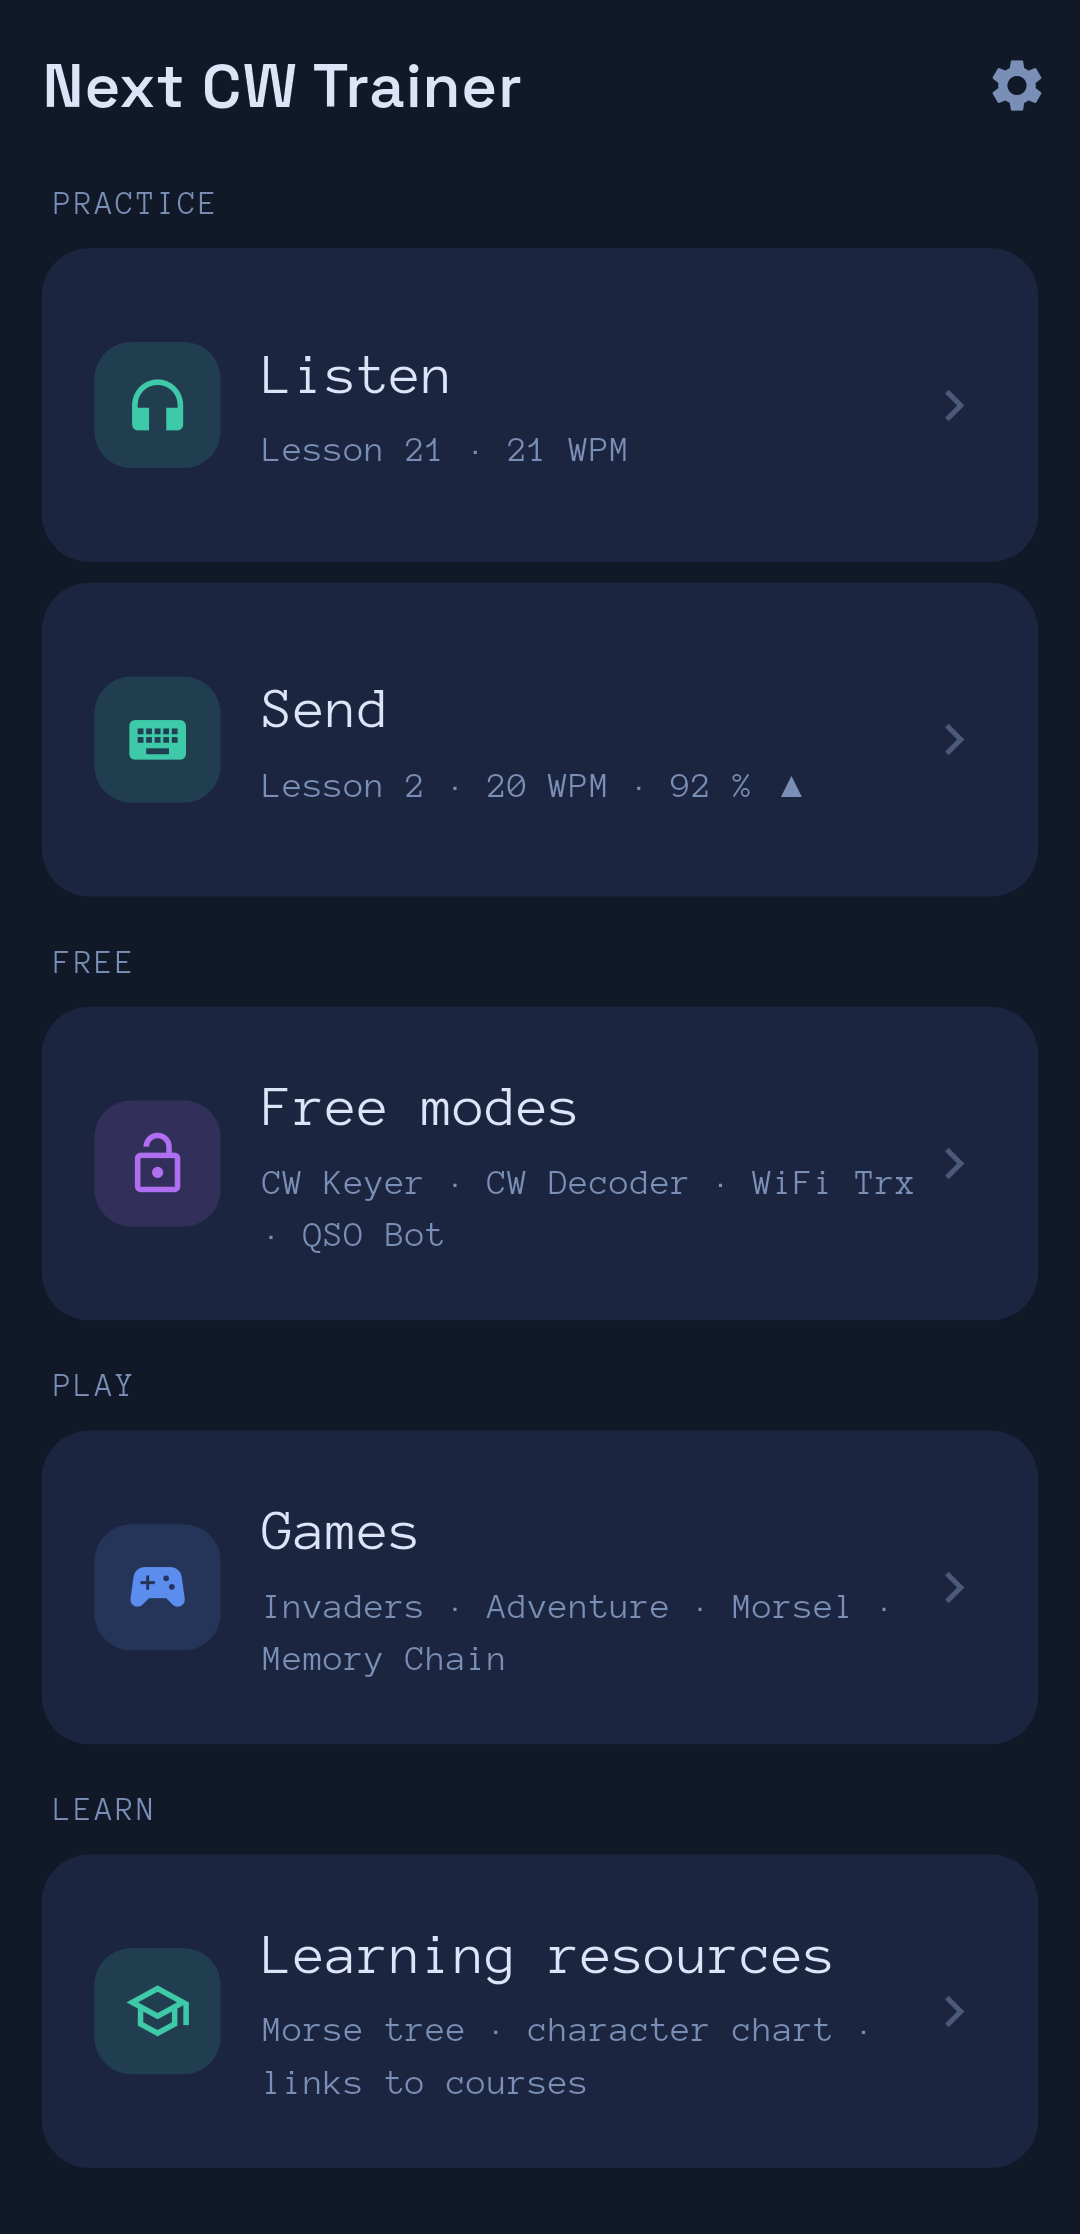
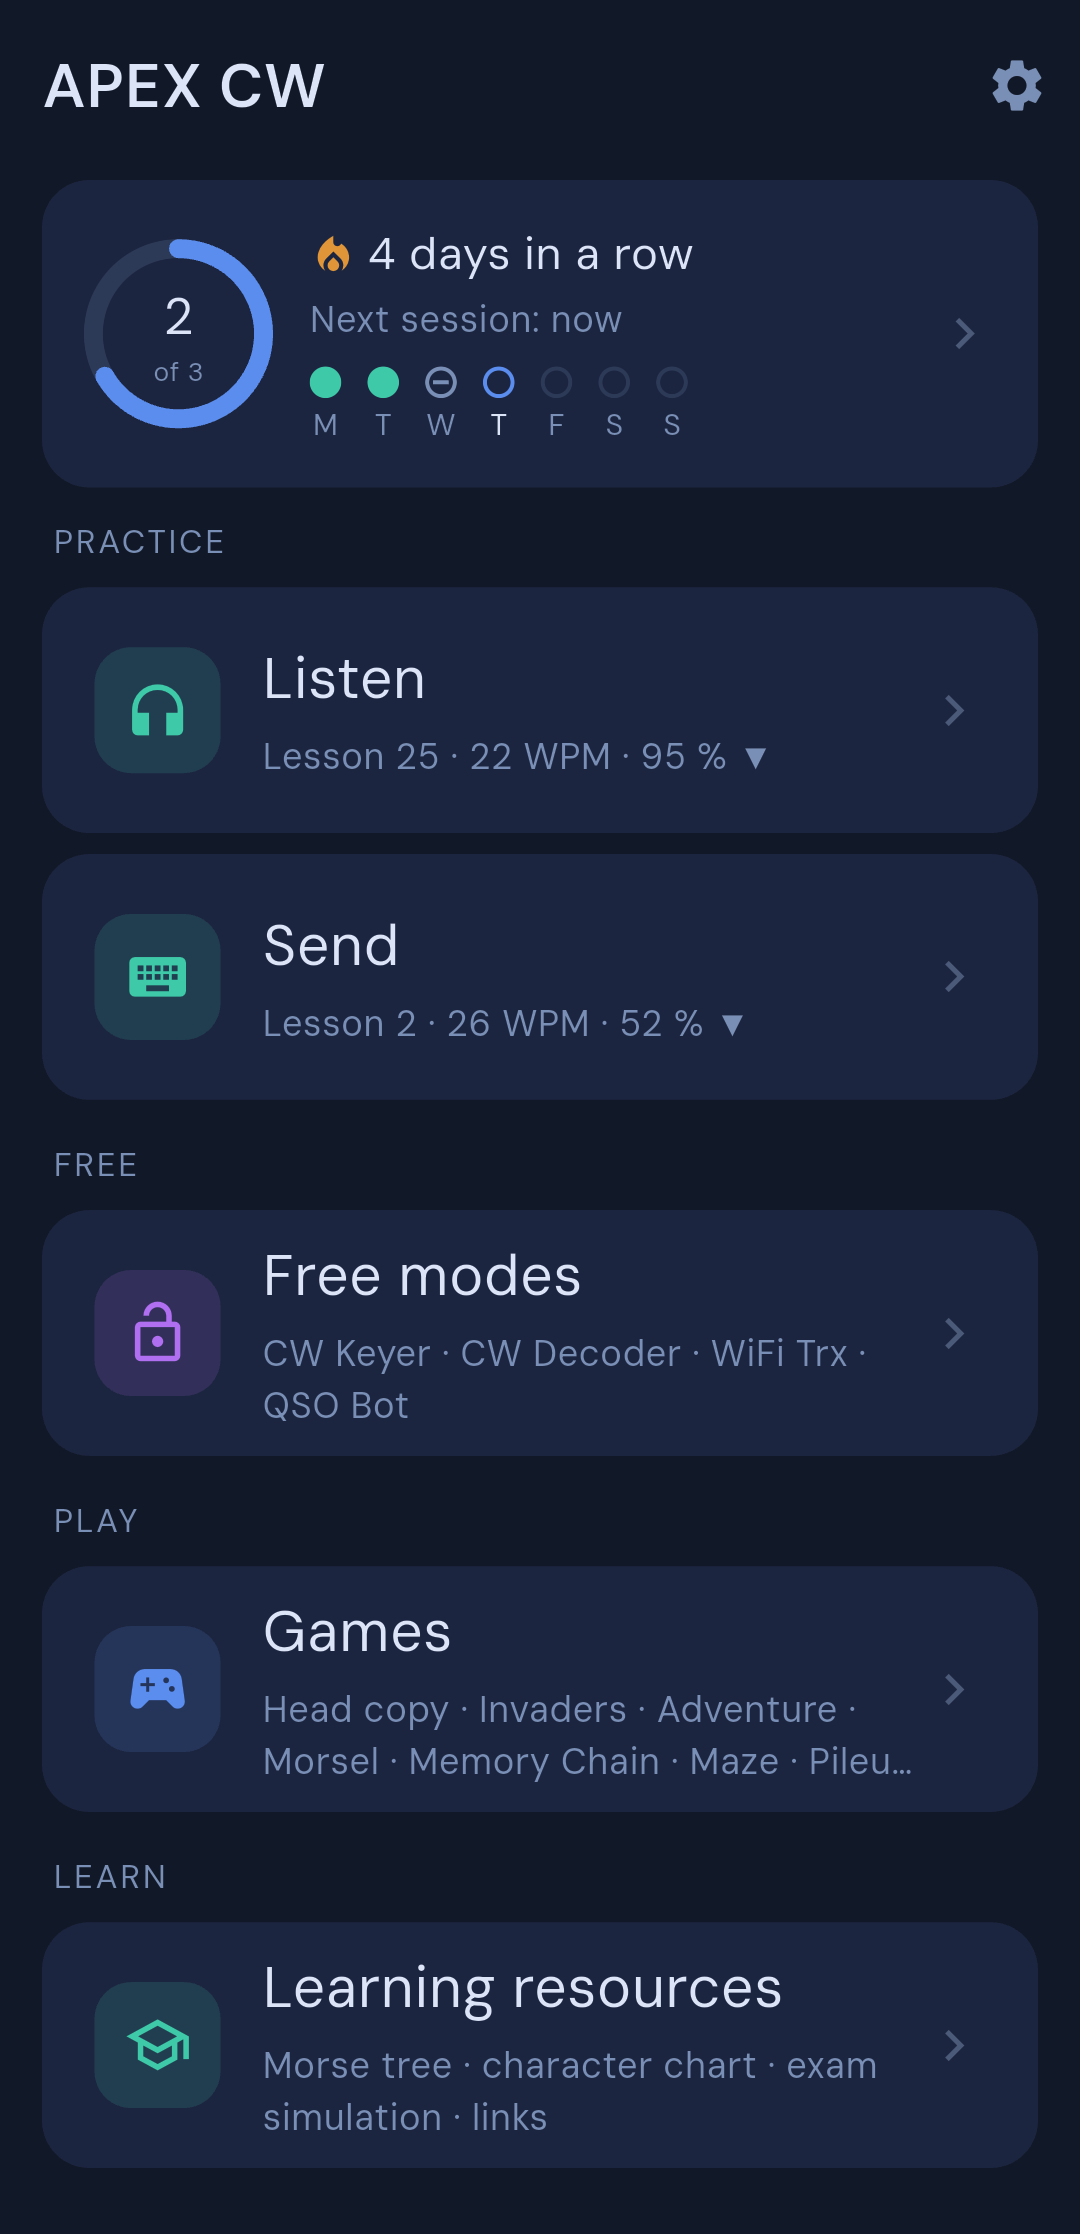
Store listing: new screenshots, graphics and texts for the 1.6.1 beta
8 phone shots per language (adds Head copy and Exam simulation, drops
Adventure and Echo statistics), navy palette matching the new logo,
feature graphic with exam, DE/EN short and full descriptions updated.

diff --git a/store/make_graphics.py b/store/make_graphics.py
@@ -20,20 +20,21 @@ FONT = os.path.join(ROOT, 'android', 'assets', 'fonts', 'DMSans.ttf')
 OUT = os.path.join(ROOT, 'store', 'out')
 
 FEATURE = {
-    'de': ('Morsen lernen, überall', 'Hören · Geben · Keyer · Decoder · Spiele'),
-    'en': ('Learn Morse code anywhere', 'Copy · Send · Keyer · Decoder · Games'),
+    'de': ('Morsen lernen, überall', 'Hören · Geben · Prüfung · Keyer · Spiele'),
+    'en': ('Learn Morse code anywhere', 'Copy · Send · Exam · Keyer · Games'),
 }
 SHOTS = [  # (raw file, DE caption, EN caption), in store order
     ('home', 'Alles fürs CW-Training', 'Everything for CW practice'),
     ('hear', 'Hören mit der Koch-Methode', 'Copy with the Koch method'),
     ('hear_stats', 'Statistik für jedes Zeichen', 'Statistics for every character'),
-    ('echo_stats', 'Geben üben: was du verwechselst', 'Sending: see what you mix up'),
+    ('verstehen', 'Verstehen ohne Mitschreiben', 'Head copy without writing'),
+    ('exam', 'Prüfungssimulation', 'Exam simulation'),
+    ('send', 'Geben üben mit Bewertung', 'Sending practice with grading'),
     ('qso', 'QSO-Bot als Übungspartner', 'QSO Bot as a practice partner'),
     ('games', 'Spielend morsen lernen', 'Learn Morse through games'),
-    ('adventure', 'Klassische Text-Adventures in CW', 'Classic text adventures in CW'),
 ]
 RAW = os.path.join(ROOT, 'store', 'raw')
-TOP, BOTTOM = (116, 153, 212), (45, 70, 125)      # the icon's panel gradient
+TOP, BOTTOM = (30, 52, 96), (18, 33, 64)           # the new icon's navy (#122140)
 DOT, DASH = 18, 54                                  # "CW" in Morse as a motif
 
 

diff --git a/docs/PLAY-LISTING.md b/docs/PLAY-LISTING.md
@@ -21,8 +21,8 @@ short description 80, full description 4000 characters.
 
 ## Short description
 
-- **DE:** Morsen lernen: Koch-Methode, Hör- und Gebetraining, Keyer, Decoder, Spiele
-- **EN:** Learn Morse code: Koch method, copy & send training, keyer, decoder, games
+- **DE:** Morsen lernen: Koch-Methode, Hören, Geben, Prüfungssimulation, Keyer, Spiele
+- **EN:** Learn Morse code: Koch method, copy, send, exam simulation, keyer, games
 
 ## Full description — DE
 
@@ -33,11 +33,20 @@ HÖREN
 • Zufallszeichen, Gruppen, häufige Wörter, Abkürzungen, Rufzeichen, gemischte Inhalte
 • Koch-Methode mit den Reihenfolgen M32, LCWO, CW Academy, LICW oder einer eigenen
 • Blockweise mitschreiben, Fehler markieren, Auswertung mit Trend und schwachen Zeichen
-• Adaptive Vorschläge: nächstes Koch-Zeichen, Farnsworth-Abstände, Tempo – du entscheidest
+• Adaptive Vorschläge: nächstes Koch-Zeichen, Farnsworth-Abstände, Tempo, Pausenhinweis – du entscheidest
 
 GEBEN
 • Echo-Trainer: Wort hören, zurückgeben, sofortige Bewertung
 • Eigenes Profil fürs Geben, Verwechslungspaare, Gebe-Tempo
+
+PRÜFUNGSSIMULATION
+• Die freiwillige Morseprüfung üben: Österreich, Deutschland, UK, Neuseeland, Indien, USA oder ein eigenes Profil
+• Aufnehmen und Geben wie in der Prüfung: festes Tempo, Zeitlimit, Fehlergrenze, bestanden oder nicht
+• Verlauf deiner Versuche – die Werte stammen aus öffentlichen Quellen und ersetzen nicht die offizielle Prüfung
+
+VERSTEHEN OHNE MITSCHREIBEN
+• Sätze, Q-Gruppen und Mini-QSOs hören und Fragen dazu beantworten
+• Zwei Stationen mit zwei Tonhöhen, wie auf dem Band
 
 FREI MORSEN
 • CW-Keyer: Iambic A/B, Ultimatic, Non-Squeeze, Handtaste, mit Live-Dekodierung
@@ -46,13 +55,16 @@ FREI MORSEN
 • QSO-Bot: simulierter Funkpartner für SOTA/POTA-, Standard- und Contest-QSOs
 
 SPIELE
-• Morse Invaders, Morsel (Wörter raten), Memory Chain
+• Morse Invaders, Morsel, Memory Chain, Trailblazer, Fox Hunt, Fight the Pileup, Radio Cave
 • Die Textadventures Zork I–III, komplett in CW gespielt
+
+DRAN BLEIBEN
+• Tagesziel und Serie, Statistik pro Zeichen, Verlaufskurven für Trefferquote, Tempo und Übungszeit
 
 AUSSERDEM
 • Touch-Keyer am Bildschirm oder echte Morsetaste über einen Adapter
 • Latenzarmer Mithörton, Ausgabe über Lautsprecher, Kopfhörer oder Bluetooth
-• Deutsch und Englisch, Statistik pro Zeichen, ausführliches Handbuch
+• Deutsch und Englisch, ausführliches Handbuch
 
 Keine Werbung, keine Konten, keine Datensammlung. Freie Software (GPL-3.0), Quellcode auf GitHub.
 
@@ -68,11 +80,20 @@ LISTEN
 • Random characters, groups, common words, abbreviations, call signs, mixed content
 • Koch method with M32, LCWO, CW Academy, LICW or your own sequence
 • Copy in blocks, mark your misses, results with trend and weak characters
-• Adaptive suggestions: next Koch character, Farnsworth spacing, speed – you decide
+• Adaptive suggestions: next Koch character, Farnsworth spacing, speed, break hint – you decide
 
 SEND
 • Echo Trainer: hear a word, key it back, instant grading
 • Separate sending profile, confusion pairs, answer speed cap
+
+EXAM SIMULATION
+• Rehearse the voluntary Morse exam: Austria, Germany, UK, New Zealand, India, USA or your own profile
+• Receive and send as in the exam: fixed speed, time limit, error limit, pass or fail
+• History of your runs – values come from public sources and do not replace the official exam
+
+HEAD COPY, NO WRITING
+• Hear sentences, Q-groups and mini QSOs and answer questions about them
+• Two stations at two pitches, like on the band
 
 FREE KEYING
 • CW keyer: Iambic A/B, Ultimatic, Non-Squeeze, straight key, with live decoding
@@ -81,13 +102,16 @@ FREE KEYING
 • QSO Bot: a simulated partner for SOTA/POTA, standard and contest QSOs
 
 GAMES
-• Morse Invaders, Morsel (word guessing), Memory Chain
+• Morse Invaders, Morsel, Memory Chain, Trailblazer, Fox Hunt, Fight the Pileup, Radio Cave
 • The text adventures Zork I–III, played entirely in CW
+
+STAY ON TRACK
+• Daily goal and streak, per-character statistics, progress charts for hit rate, speed and practice time
 
 ALSO
 • On-screen touch keyer, or a real Morse key via an adapter
 • Low-latency sidetone through speaker, headphones or Bluetooth
-• German and English, per-character statistics, detailed manual
+• German and English, detailed manual
 
 No ads, no accounts, no data collection. Free software (GPL-3.0), source code on GitHub.
 
@@ -99,9 +123,10 @@ Many ideas and much of the training logic come from the open-source Morserino-32
 All built by `python3 store/make_graphics.py` into `store/out/`:
 - `icon_512.png` — app icon 512×512 (full-bleed; Play masks it)
 - `feature_{de,en}.png` — feature graphic 1024×500
-- `shot_{de,en}_N_<name>.png` — 7 phone screenshots per language, 1080×1920,
-  captioned, upload in order N. Raw shots in `store/raw/{de,en}/` (dark
-  theme, test phone, 2026-09-28); retake when those screens change.
+- `shot_{de,en}_N_<name>.png` — 8 phone screenshots per language, 1080×1920,
+  captioned, upload in order N (home, listen, statistics, head copy, exam
+  simulation, send, QSO Bot, games). Raw shots in `store/raw/{de,en}/` (dark
+  theme, test phone, 2026-10-08, beta 1.6.1); retake when those screens change.
 
 ## Console answers
 

diff --git a/docs/STATUS.md b/docs/STATUS.md
@@ -34,18 +34,14 @@ link once the app is live, and set the Play listing's website to the Pages URL.
 
 ## New logo (2026-10-06, on main): still to do
 Done and checked on the test phone: launcher icons, README, landing page. Pending:
-- **Play Store** (deliberately postponed until the store launch; no work per beta): rebuild `store/out` with `python3 store/make_graphics.py`
-  after changing its palette (`TOP`/`BOTTOM` gradient is still the old blue
-  panel; use the new navy `#122241`/teal/orange accents) and re-check
-  `feature_{de,en}.png`; upload new `icon_512.png` + feature graphic in the
-  Play Console (store listing, app icon). `docs/PLAY-LISTING.md` unchanged.
+- **Play Store**: graphics, screenshots and texts rebuilt 2026-10-08 (palette now navy, 8 shots per language, `docs/PLAY-LISTING.md` updated). Still to do in the Play Console: upload `store/out/*` (icon_512, feature graphic, shots in order) and paste the texts, for DE and EN.
 - **GitHub**: upload `android/tool/icon/social_preview.png` (repo Settings →
   Social preview; no API).
 - **Manual** (at release): the built HTML/PDF carry no icon, but check the
   cover/info for the old look; screenshots with the launcher icon, if any.
 
 ## Manual: pending for next release
-- Rename to "APEX CW" (feature/rename-apex-cw): app bar title on Home and the About dialog show the new name; retake `home*` and any shot with the title bar (DE+EN) at release. Also: store raw shots + graphics (`store/make_graphics.py`) and the Play Console app name/listing. (Site images were retaken 2026-10-08, see archive.)
+- Rename to "APEX CW" (feature/rename-apex-cw): app bar title on Home and the About dialog show the new name; retake `home*` and any shot with the title bar (DE+EN) at release. Also: the Play Console app name/listing (store raw shots + graphics were rebuilt 2026-10-08, see archive). (Site images were retaken 2026-10-08, see archive.)
 - Home: Listen tile now also shows the trend (fix/home-hear-trend); retake `home.png` (DE+EN).
 - Listen start page: slim "On the way to X" card (Koch lesson) below the weak characters; retake `hear_start` (DE+EN).
 - Break hint sensitivity (#48, on main): new row in Settings → General; retake `settings1.png` (DE+EN) if the row shows there. Defaults still to be tuned on real sessions (being tried by testers).
